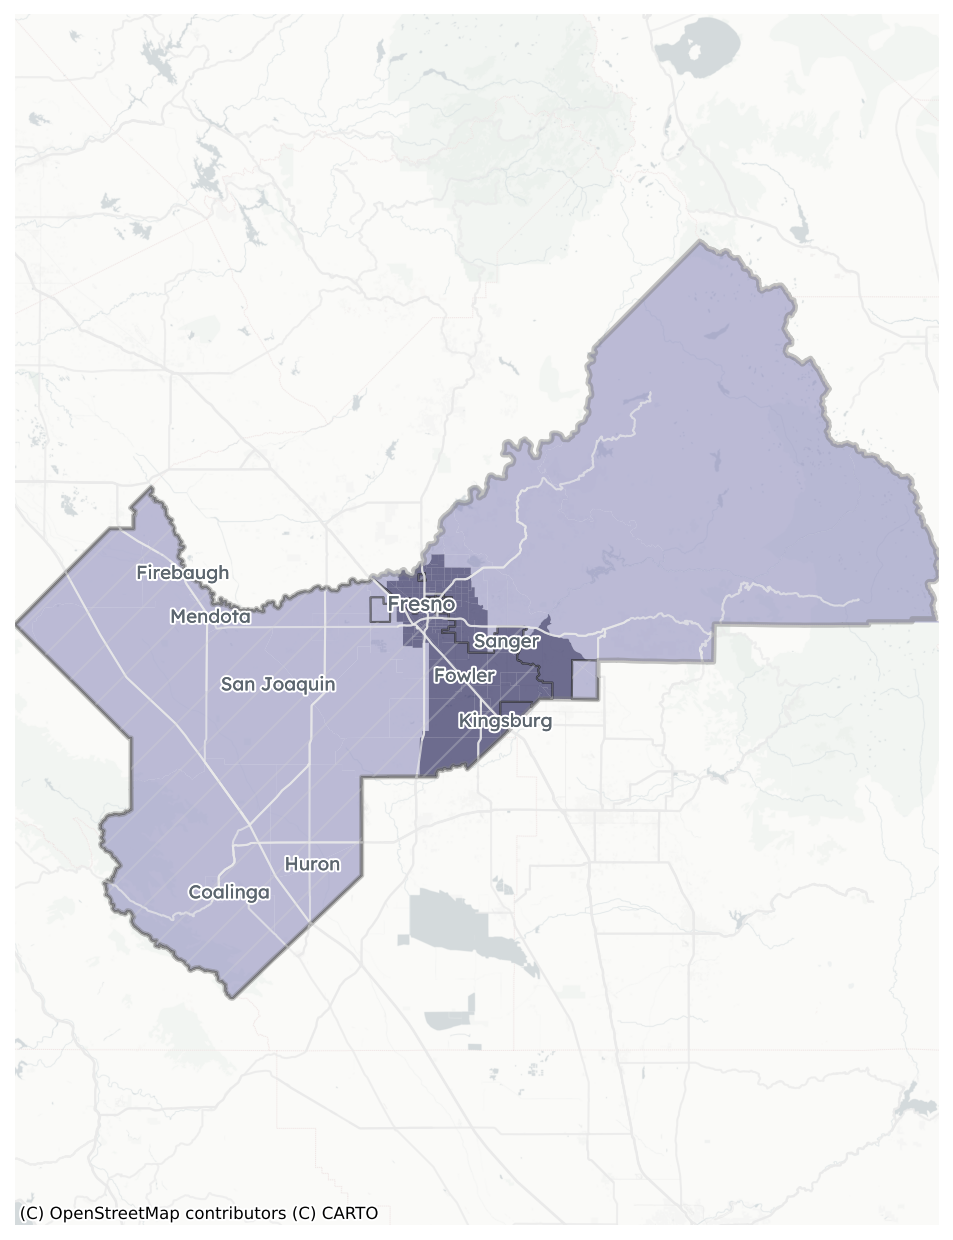
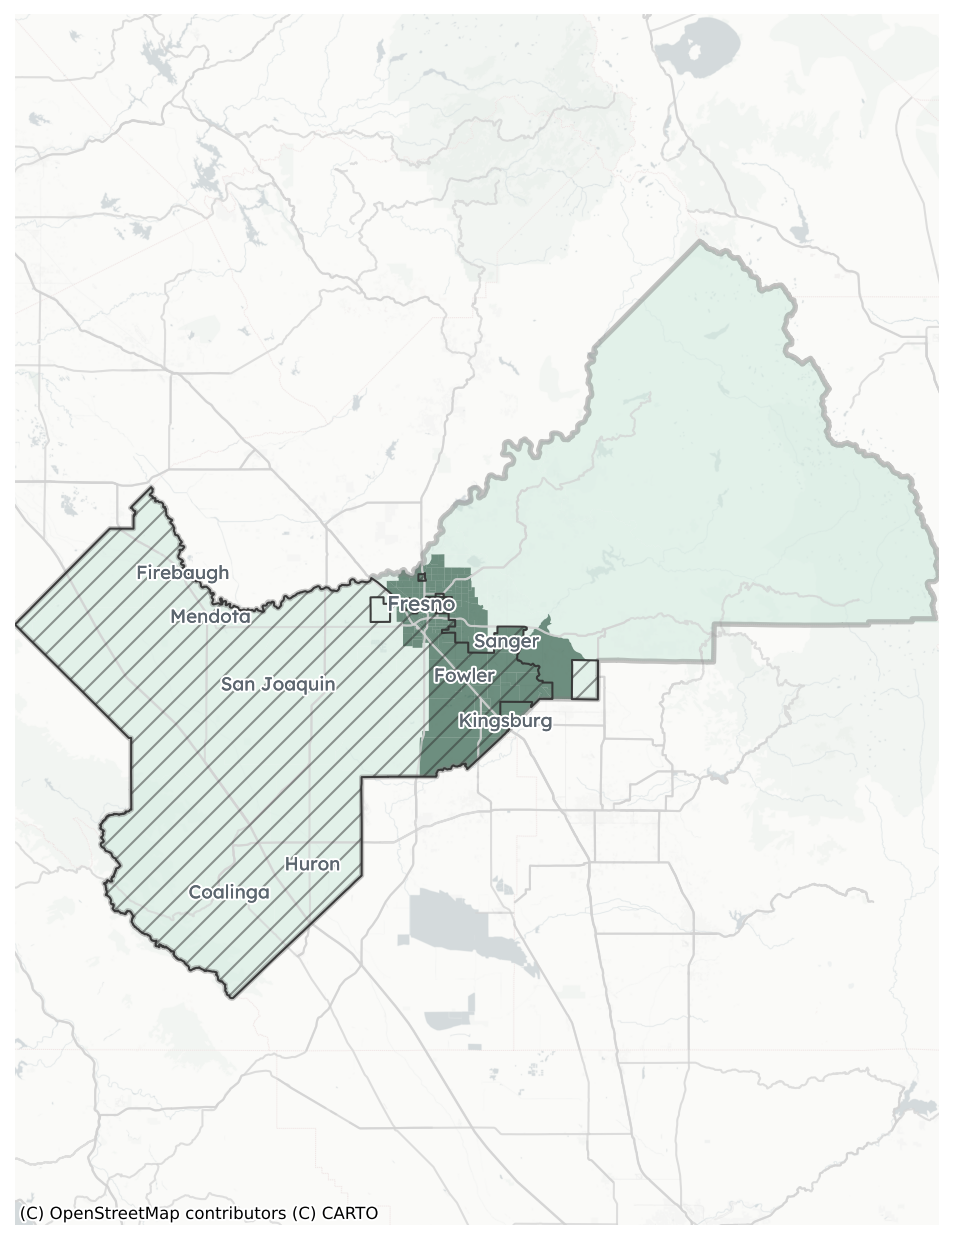
feat: green maps

Changed region(s): [[0.0, 0.1839, 1.0, 0.7968]]

diff --git a/map_utils.py b/map_utils.py
@@ -79,8 +79,8 @@ map_configs = {
 	"air_pollution": {
 		"value_field": "categorical_average",  # assuming this field exists
 		"color_mapping": {
-			"Below County Average": "#C3B6E8",
-			"Above County Average": "#100e48"
+			"Below County Average": "#d3ebe0",
+			"Above County Average": "#10462e"
 		},
 		"legend_mapping": {
 			"Below County Average": "Below County Avg.",
@@ -365,9 +365,9 @@ def generate_majority_tracts_map(
                         dissolved_latino_gdf[mask].plot(
                             ax=ax,
                             color='none',
-                            edgecolor='#FFB347',
+                            edgecolor='#333333',
                             linewidth=0.5,
-                            alpha=0.6,
+                            alpha=0.5,
                             hatch='//',
                             zorder=7
                         )
@@ -386,7 +386,7 @@ def generate_majority_tracts_map(
                 # Plot roads with increased linewidth and a prominent color
                 roads_gdf.plot(
                     ax=ax,
-                    color='#b2b5b8',  # Change to a more prominent color
+                    color='lightgray',  # Change to a more prominent color
                     linewidth=1,  # Increase the linewidth
                     alpha=0.7,
                     zorder=2

diff --git a/test_air_pollution_maps.py b/test_air_pollution_maps.py
@@ -12,7 +12,7 @@ class TestAirPollutionMaps(unittest.TestCase):
         self.ca_counties_path = 'inputs/geojson/ca_counties_simplified.geojson'
         self.pop_data_path = 'inputs/tract_level_data.csv'
         self.topical_data_path = 'inputs/pm25_binned_data.csv'  # Renamed from heat_data_path
-        self.output_dir = 'output/air_pollution_maps_gray'
+        self.output_dir = 'output/air_pollution_maps'
         self.roads_path = 'inputs/geojson/ca_primary_secondary_roads.geojson'
         self.ca_counties = self.get_all_counties()
         os.makedirs(self.output_dir, exist_ok=True)
